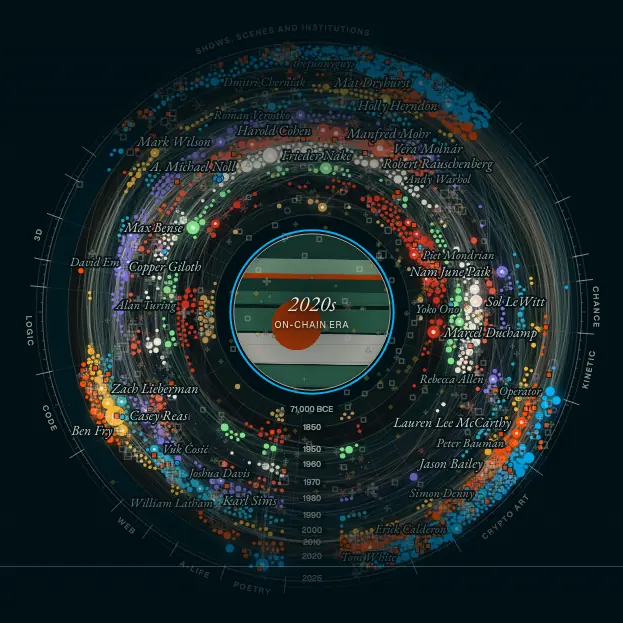
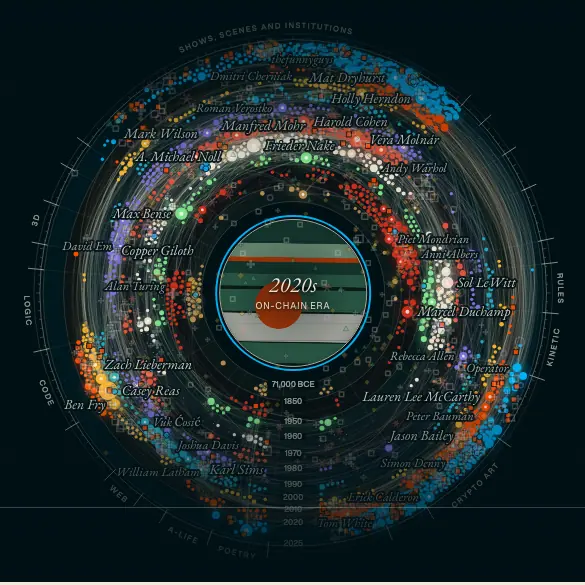
subjects D: one shared state between hero map and index (kinds, selection, search, year, hash); select then open; search all subjects with phone access; map offset right/down clear of SUBJECTS; zone id every-subject

diff --git a/subjects/subjects-index.js b/subjects/subjects-index.js
@@ -113,19 +113,24 @@
 
     // 01 Index: a weighted random deal (Efraimidis-Spirakis, w = mentions^A, A set per kind by the build so the most
     // mentioned lands about 90% of the time) or A to Z; 28 at a time
-    var IX = { k: 'all', sort: 'rand', shown: 28, deal: {} };
+    // one state shared with the map in the hero: kind (or several), order, year, selection; mirrored in the address
+    var IX = { k: 'all', sort: 'rand', shown: 28, deal: {}, yr: null, sel: null };
     var hk = (location.hash || '').replace(/^#/, '').toLowerCase().split('&'), KH = { people: 0, organisations: 1, organizations: 1, works: 2, exhibitions: 3, places: 4, techniques: 5, themes: 6 };
-    if (hk[0] in KH) IX.k = KH[hk[0]]; if (hk.indexOf('sort=az') > 0) IX.sort = 'az';
-    var pool = function (k) { return L.filter(function (s) { return k === 'all' || s.k === k; }); };
-    var deal = function (k) { var A = k === 'all' ? (DA.o || 1.3) : (DA[k] || 1.2); return pool(k).filter(function (s) { return s.slug !== 'peter-bauman'; }).map(function (s) { return [Math.log(Math.random()) / Math.pow(Math.max(s.tot, 1), A), s]; }).sort(function (a, b) { return b[0] - a[0]; }).map(function (x) { return x[1]; }); };
-    var az = function (k) { return pool(k).slice().sort(function (a, b) { return fold(a.n).localeCompare(fold(b.n)) || a.n.localeCompare(b.n); }); };
+    if (hk[0] in KH) IX.k = KH[hk[0]]; if (hk.indexOf('sort=az') > -1) IX.sort = 'az';
+    hk.forEach(function (p) { if (p.indexOf('s=') === 0 && byS[p.slice(2)]) IX.sel = p.slice(2); });
+    var inK = function (s, k) { return k === 'all' || (k instanceof Set ? k.has(s.k) : s.k === k); };
+    var pool = function (k, all) { return L.filter(function (s) { return inK(s, k) && (all || IX.yr == null || s.yr == null || s.yr <= IX.yr); }); };
+    var dkey = function (k) { return k instanceof Set ? Array.from(k).sort().join(',') : String(k); };
+    var deal = function (k) { var A = typeof k === 'number' ? (DA[k] || 1.2) : (DA.o || 1.3); return pool(k).filter(function (s) { return s.slug !== 'peter-bauman'; }).map(function (s) { return [Math.log(Math.random()) / Math.pow(Math.max(s.tot, 1), A), s]; }).sort(function (a, b) { return b[0] - a[0]; }).map(function (x) { return x[1]; }); };
+    var az = function (k, all) { return pool(k, all).slice().sort(function (a, b) { return fold(a.n).localeCompare(fold(b.n)) || a.n.localeCompare(b.n); }); };
     function ixRows() {
-      var all = IX.sort === 'az' ? az(IX.k) : (IX.deal[IX.k] || (IX.deal[IX.k] = deal(IX.k))), rows = all.slice(0, IX.shown);
-      return '<div class="sx-reg">' + rows.map(function (s) { return row(s, mentions(s)); }).join('') + '</div>' +
-        '<div class="sx-foot">' + (IX.shown < all.length ? '<button type="button" class="sx-chip" data-ixmore>Show ' + Math.min(28, all.length - IX.shown) + ' more</button>' : '') + '<span class="sx-count">Showing <b>' + fmt(Math.min(IX.shown, all.length)) + '</b> of ' + fmt(all.length) + '</span></div>';
+      var key = dkey(IX.k) + '|' + IX.yr, all = IX.sort === 'az' ? az(IX.k) : (IX.deal[key] || (IX.deal[key] = deal(IX.k))), rows = all.slice(0, IX.shown);
+      var sel = IX.sel && byS[IX.sel], selRow = sel && rows.indexOf(sel) < 0 ? '<div class="sx-selrow"><span class="sx-lbl">Selected on the map</span>' + row(sel, mentions(sel)) + '</div>' : '';
+      return selRow + '<div class="sx-reg">' + rows.map(function (s) { return row(s, mentions(s)); }).join('') + '</div>' +
+        '<div class="sx-foot">' + (IX.shown < all.length ? '<button type="button" class="sx-chip" data-ixmore>Show ' + Math.min(28, all.length - IX.shown) + ' more</button>' : '') + '<span class="sx-count">Showing <b>' + fmt(Math.min(IX.shown, all.length)) + '</b> of ' + fmt(all.length) + (IX.yr != null ? ' &middot; in history by ' + (IX.yr < 0 ? fmt(-IX.yr) + ' BCE' : IX.yr) : '') + '</span></div>';
     }
     function ixTools() {
-      return '<div class="sx-tools">' + chips(IX.k, 'data-ixk') + '</div><div class="sx-tools sx-tools2"><button type="button" class="sx-chip" data-ixsort="rand" aria-pressed="' + (IX.sort === 'rand') + '">Random</button><button type="button" class="sx-chip" data-ixsort="az" aria-pressed="' + (IX.sort === 'az') + '">A&ndash;Z</button>' + (IX.sort === 'rand' ? '<button type="button" class="sx-chip" data-ixshuf>Shuffle</button>' : '') + '</div>';
+      return '<div class="sx-tools">' + chips(IX.k instanceof Set ? 'some' : IX.k, 'data-ixk') + '</div><div class="sx-tools sx-tools2"><button type="button" class="sx-chip" data-ixsort="rand" aria-pressed="' + (IX.sort === 'rand') + '">Random</button><button type="button" class="sx-chip" data-ixsort="az" aria-pressed="' + (IX.sort === 'az') + '">A&ndash;Z</button>' + (IX.sort === 'rand' ? '<button type="button" class="sx-chip" data-ixshuf>Shuffle</button>' : '') + '</div>';
     }
     var mini = '<aside class="sx-mini" aria-label="On the map"><div class="sx-minicard"><span class="sx-lbl">On the map</span><canvas width="652" height="510" aria-hidden="true"></canvas><p>Hover a name to light it on the map. Click to open the subject.</p><a href="#lr-subjects-map" data-top>Back to the full map &uarr;</a></div></aside>';
     var idx = '<div class="sx-ixgrid"><div class="sx-ixmain"><div class="sx-ixtools">' + ixTools() + '</div><div class="sx-ixrows">' + ixRows() + '</div></div>' + mini + '</div>';
@@ -143,10 +148,10 @@
     si.parentNode.insertBefore(box, si);
 
     // 04 Every subject: the page's own lists (two Webflow Collection Lists, what search engines read) drawn as one register
-    si.classList.add('sx', 'sx-every'); si.id = si.id || 'every';
+    si.classList.add('sx', 'sx-every'); si.id = 'every-subject';
     var EV = { k: 'all' };
     function everyHTML() {
-      var all = az(EV.k), letters = {}, html = '', cur = '';
+      var all = az(EV.k, true), letters = {}, html = '', cur = '';
       all.forEach(function (s) { var l = L0(s.n); letters[l] = 1; if (l !== cur) { cur = l; html += '<div class="sx-letter" id="sx-l-' + (l === '#' ? 'num' : l) + '">' + l + '</div>'; } html += row(s, s.tot, ONE[s.k]); });
       return '<div class="sx-tools">' + chips(EV.k, 'data-evk') + '<span class="sx-count">Showing <b>' + fmt(all.length) + '</b> of ' + fmt(N) + '</span></div>' +
         '<nav class="sx-az" aria-label="By letter">' + '#ABCDEFGHIJKLMNOPQRSTUVWXYZ'.split('').map(function (c) { return letters[c] ? '<a href="#sx-l-' + (c === '#' ? 'num' : c) + '">' + c + '</a>' : '<span>' + c + '</span>'; }).join('') + '</nav><div class="sx-reg sx-c3">' + html + '</div>';
@@ -192,6 +197,11 @@
     function on(slug) { if (!slug) return; lit = slug; api.hover(slug); mirrorUntil = performance.now() + 1500; }
     function off() { if (!lit) return; lit = null; api.leave(); mirrorUntil = performance.now() + 900; }
     [box, si].forEach(function (z) {
+      z.addEventListener('click', function (e) {
+        var a = e.target.closest('a[data-sl]'); if (!a || e.metaKey || e.ctrlKey || e.shiftKey || e.button) return;
+        var slug = a.getAttribute('data-sl'); if (IX.sel === slug) return;   // the second click follows the link to the page
+        e.preventDefault(); api.select(slug);
+      });
       z.addEventListener('pointerover', function (e) { if (e.pointerType === 'touch') return; var a = e.target.closest('[data-sl]'); if (a) on(a.getAttribute('data-sl')); else off(); });
       z.addEventListener('pointerleave', function (e) { if (e.pointerType !== 'touch') off(); });
       z.addEventListener('focusin', function (e) { var a = e.target.closest('[data-sl]'); if (a) on(a.getAttribute('data-sl')); });
@@ -202,8 +212,8 @@
     box.addEventListener('click', function (e) {
       var t = e.target.closest('[data-ixk],[data-ixsort],[data-ixshuf],[data-ixmore],[data-ixgo],[data-top]'); if (!t) return;
       if (t.hasAttribute('data-top')) { e.preventDefault(); window.scrollTo({ top: 0, behavior: matchMedia('(prefers-reduced-motion: reduce)').matches ? 'auto' : 'smooth' }); return; }
-      if (t.hasAttribute('data-ixgo')) { e.preventDefault(); IX.k = +t.getAttribute('data-ixgo'); IX.sort = 'rand'; IX.shown = 28; redrawIx(); document.getElementById('index').scrollIntoView({ behavior: 'smooth' }); return; }
-      if (t.hasAttribute('data-ixk')) { var v = t.getAttribute('data-ixk'); IX.k = v === 'all' ? 'all' : +v; IX.shown = 28; }
+      if (t.hasAttribute('data-ixgo')) { e.preventDefault(); IX.k = +t.getAttribute('data-ixgo'); IX.sort = 'rand'; IX.shown = 28; api.setKinds([IX.k]); redrawIx(); document.getElementById('index').scrollIntoView({ behavior: 'smooth' }); return; }
+      if (t.hasAttribute('data-ixk')) { var v = t.getAttribute('data-ixk'); IX.k = v === 'all' ? 'all' : +v; IX.shown = 28; api.setKinds(v === 'all' ? [0, 1, 2, 3, 4, 5, 6] : [+v]); }
       if (t.hasAttribute('data-ixsort')) { IX.sort = t.getAttribute('data-ixsort'); IX.shown = 28; }
       if (t.hasAttribute('data-ixshuf')) IX.deal[IX.k] = deal(IX.k);
       if (t.hasAttribute('data-ixmore')) IX.shown += 28;
@@ -211,8 +221,11 @@
     });
     pill.addEventListener('click', function (e) { e.preventDefault(); window.scrollTo({ top: 0, behavior: 'smooth' }); });
     function redrawIx() {
-      box.querySelector('.sx-ixtools').innerHTML = ixTools(); box.querySelector('.sx-ixrows').innerHTML = ixRows();
-      var KN2 = ['people', 'organisations', 'works', 'exhibitions', 'places', 'techniques', 'themes'], h = (IX.k === 'all' ? (IX.sort === 'az' ? '#all' : '') : '#' + KN2[IX.k]) + (IX.sort === 'az' ? '&sort=az' : '');
+      box.querySelector('.sx-ixtools').innerHTML = ixTools(); box.querySelector('.sx-ixrows').innerHTML = ixRows(); markSel(false);
+      var KN2 = ['people', 'organisations', 'works', 'exhibitions', 'places', 'techniques', 'themes'], parts = [];
+      if (typeof IX.k === 'number') parts.push(KN2[IX.k]); else if (IX.sort === 'az' || IX.sel) parts.push('all');
+      if (IX.sort === 'az') parts.push('sort=az'); if (IX.sel) parts.push('s=' + IX.sel);
+      var h = parts.length ? '#' + parts.join('&') : '';
       try { history.replaceState(history.state, '', location.pathname + location.search + (h || '')); } catch (e) {}
     }
     si.addEventListener('click', function (e) { var t = e.target.closest('[data-evk]'); if (!t) return; var v = t.getAttribute('data-evk'); EV.k = v === 'all' ? 'all' : +v; ev.innerHTML = everyHTML(); });
@@ -222,10 +235,24 @@
       if (!a || !b) { c.innerHTML = '<span class="sx-lbl">Path</span><span class="sx-none">Pick two subjects from the list</span>'; return; }
       api.path(a.slug, b.slug).then(function (ch) { c.innerHTML = '<span class="sx-lbl">Path</span>' + (ch.length ? chainHTML(ch) : '<span class="sx-none">No path within four steps</span>'); mirrorUntil = performance.now() + 1500; });
     });
+    api.on('kinds', function (ks) { IX.k = ks.length >= 7 ? 'all' : ks.length === 1 ? ks[0] : new Set(ks); IX.shown = 28; redrawIx(); });
+    api.on('year', function (y) { IX.yr = y; IX.shown = 28; redrawIx(); });
+    api.on('select', function (slug) { IX.sel = slug; redrawIx(); markSel(true); mirrorUntil = performance.now() + 1500; });
+    function markSel(scroll) {
+      Array.prototype.forEach.call(document.querySelectorAll('.sx-row.is-sel'), function (r) { r.classList.remove('is-sel'); });
+      if (!IX.sel) return; var rows = document.querySelectorAll('.sx-row[data-sl="' + IX.sel.replace(/"/g, '') + '"]'), first = null;
+      Array.prototype.forEach.call(rows, function (r) { r.classList.add('is-sel'); if (!first && box.contains(r)) first = r; });
+      // the index scrolls to it only while the index is on screen (never pulls the page away from the map)
+      var ixz = document.getElementById('index'), rb = ixz.getBoundingClientRect();
+      if (scroll && first && rb.top < innerHeight && rb.bottom > 0) first.scrollIntoView({ block: 'nearest', behavior: matchMedia('(prefers-reduced-motion: reduce)').matches ? 'auto' : 'smooth' });
+    }
+    // a shared link restores both sides
+    if (typeof IX.k === 'number') api.setKinds([IX.k]);
+    if (IX.sel) api.select(IX.sel);
     addEventListener('hashchange', function () { var h = (location.hash || '').replace(/^#/, '').toLowerCase().split('&'); if (h[0] in KH) { IX.k = KH[h[0]]; IX.sort = h.indexOf('sort=az') > 0 ? 'az' : 'rand'; IX.shown = 28; redrawIx(); } });
   }
 
-  var SX_CSS = ".sx{--paper:#EFE9D8;--ink:#011015;--ink55:rgba(1,16,21,.55);--ink62:rgba(1,16,21,.62);--hair:rgba(1,16,21,.17);--hair08:rgba(1,16,21,.08);--or:#FF4C00;--or-t:#C93D00;--card:#FCFBF7;--shadow:rgba(1,16,21,.10);\n  --fr:clamp(20px,4.4vw,80px);color:var(--ink)}\nhtml.lr-dark .sx{--paper:#011015;--ink:#EFE9D8;--ink55:rgba(239,233,216,.55);--ink62:rgba(239,233,216,.62);--hair:rgba(239,233,216,.17);--hair08:rgba(239,233,216,.08);--or:#FF7A45;--or-t:#FF7A45;--card:#0A1B21;--shadow:rgba(0,0,0,.45)}\n#sx-zones,.sx.sx-every{max-width:1580px;margin:0 auto;padding:64px var(--fr) 0;box-sizing:border-box}\n.sx.sx-every{padding-top:0;padding-bottom:16px}\n.sx-zone{margin-bottom:64px;scroll-margin-top:90px}\n.sx-every{scroll-margin-top:90px}\n.sx-zh{display:flex;align-items:flex-end;gap:0 22px;border-bottom:1px solid var(--ink);padding-bottom:20px;margin:0 0 26px}\n.sx-no{font:500 69.12px/51.15px \"EB Garamond\",Garamond,Georgia,serif;color:transparent;-webkit-text-stroke:1.3px var(--or);letter-spacing:.01em}\n.sx-x{display:flex;flex-wrap:wrap;align-items:baseline;gap:4px 18px}\n.sx-x h2,.sx-x .sx-h2{margin:20px 0 4px;font:500 12px/13.2px Rules,Arial,sans-serif;letter-spacing:.22em;text-transform:uppercase;color:var(--ink)}\n.sx-more{font:italic 400 16px/23px \"EB Garamond\",Garamond,Georgia,serif;color:var(--ink55)}\n.sx-lbl{font:500 10.5px/1 Rules,Arial,sans-serif;letter-spacing:.16em;text-transform:uppercase;color:var(--ink62)}\n.sx-tools{display:flex;flex-wrap:wrap;gap:9px;align-items:center;border-bottom:1px solid var(--hair);padding:16px 0 12px}\n.sx-tools2{border-bottom:0;padding-bottom:6px}\n.sx-chip{display:inline-flex;align-items:center;gap:8px;height:36px;padding:0 14px;border:1px solid var(--hair);background:transparent;font:500 11px/23px Rules,Arial,sans-serif;letter-spacing:.14em;text-transform:uppercase;color:var(--ink);white-space:nowrap;cursor:pointer;border-radius:0}\n.sx-chip:hover{border-color:var(--ink)}\n.sx-chip[aria-pressed=true]{background:var(--ink);color:var(--paper);border-color:var(--ink)}\n.sx-chip i{font-style:normal;font-weight:400;letter-spacing:.06em;color:var(--ink55)}\n.sx-chip[aria-pressed=true] i{color:inherit;opacity:.7}\n.sx-count{font:400 11px/23px Rules,Arial,sans-serif;letter-spacing:.14em;text-transform:uppercase;color:var(--ink55);margin-left:auto}\n.sx-count b{color:var(--ink);font-weight:500}\n.sx-foot{display:flex;align-items:center;gap:12px;margin-top:18px}\n.sx-reg{display:grid;grid-template-columns:repeat(2,minmax(0,1fr));column-gap:28px}\n.sx-reg.sx-c3{grid-template-columns:repeat(3,minmax(0,1fr))}\n.sx-row{display:grid;grid-template-columns:34px minmax(0,1fr) auto;gap:10px;align-items:baseline;border-bottom:1px solid var(--hair08);padding:7px 0 8px;color:inherit;text-decoration:none}\n.sx-row .n{font:400 11px/23px Rules,Arial,sans-serif;color:var(--or-t);font-variant-numeric:tabular-nums}\n.sx-row .t{font:500 17px/22.1px Rules,Arial,sans-serif;color:var(--ink);overflow:hidden;text-overflow:ellipsis;white-space:nowrap}\n.sx-row .d{font:400 11px/23px Rules,Arial,sans-serif;letter-spacing:.02em;color:var(--ink55);white-space:nowrap}\n.sx-row:hover,.sx-row:focus-visible{background:linear-gradient(90deg,rgba(255,76,0,.10),transparent 70%);outline:0}\n.sx-row:hover .t,.sx-row:focus-visible .t{color:var(--or-t)}\n.sx-letter{grid-column:1/-1;font:500 22px/26px Rules,Arial,sans-serif;letter-spacing:-.01em;padding:18px 0 6px;border-bottom:1px solid var(--ink);scroll-margin-top:90px}\n.sx-az{display:flex;flex-wrap:wrap;gap:2px 0;padding:10px 0 4px;font:500 11px/26px Rules,Arial,sans-serif;letter-spacing:.06em}\n.sx-az a,.sx-az span{width:26px;text-align:center;color:var(--ink);text-decoration:none}\n.sx-az span{color:var(--ink55);opacity:.5}\n.sx-az a:hover{color:var(--or-t)}\n.sx-ixgrid{display:grid;grid-template-columns:minmax(0,1fr) 360px;gap:44px;align-items:start}\n.sx-mini{position:sticky;top:96px}\n.sx-minicard{border:1px solid var(--ink);background:var(--card);padding:16px;box-shadow:10px 11px 0 var(--shadow);display:grid;gap:10px}\n.sx-minicard canvas{width:326px;height:255px;background:#011015;display:block}\n.sx-minicard p{margin:0;font:italic 400 17px/23px \"EB Garamond\",Garamond,serif;color:var(--ink62)}\n.sx-minicard a{font:400 14px/1 Rules,Arial,sans-serif;color:var(--ink);border-bottom:1px solid var(--hair);padding-bottom:6px;justify-self:start;text-decoration:none}\n.sx-paths{display:grid;gap:22px;max-width:900px}\n.sx-path{display:grid;grid-template-columns:minmax(0,1fr) 22px minmax(0,1fr) auto;gap:10px;align-items:center;margin:0}\n.sx-path input{height:38px;border:0;border-bottom:1px solid var(--ink);background:transparent;font:italic 400 17px/38px \"EB Garamond\",Garamond,serif;color:var(--ink);padding:0 2px;border-radius:0;outline:0;min-width:0}\n.sx-path input::placeholder{color:var(--ink55)}\n.sx-path input:focus{border-bottom-color:var(--or)}\n.sx-arrow{text-align:center;color:var(--ink)}\n.sx-chain{display:flex;flex-wrap:wrap;align-items:center;gap:8px 10px;min-height:30px}\n.sx-chain .sx-lbl{margin-right:6px}\n.sx-node{font:400 24px/1.1 \"EB Garamond\",Garamond,serif;border-bottom:1px solid var(--ink);padding-bottom:2px;color:var(--ink);text-decoration:none}\n.sx-node:hover{color:var(--or-t);border-bottom-color:var(--or)}\n.sx-hop{color:var(--or-t);cursor:help}\n.sx-none{font:italic 400 17px/1.3 \"EB Garamond\",Garamond,serif;color:var(--ink55)}\n.sx-kgrid{display:grid;grid-template-columns:repeat(4,minmax(0,1fr));gap:40px 28px}\n.sx-kcol h3{margin:0 0 6px;font:500 22px/26px Rules,Arial,sans-serif;letter-spacing:-.01em;border-bottom:1px solid var(--ink);padding-bottom:10px;color:var(--ink)}\n.sx-kcol h3 i{font-style:normal;font-size:12px;letter-spacing:.08em;color:var(--ink55);font-weight:400}\n.sx-kcol .sx-row{grid-template-columns:30px minmax(0,1fr)}\n.sx-kcol .sx-row .d{display:none}\n.sx-more2{display:inline-block;margin-top:12px;font:italic 400 16px/23px \"EB Garamond\",Garamond,serif;color:var(--ink55);text-decoration:none}\n.sx-more2:hover{color:var(--or-t)}\n.sx-platewrap{max-width:1580px;margin:48px auto 64px;padding:0 var(--fr);box-sizing:border-box}\n.sx-plate{background:#011015;color:#EFE9D8;border:1px solid #011015;padding:66px 57.6px;text-align:center;box-shadow:10px 11px 0 var(--shadow)}\nhtml.lr-dark .sx-plate{background:#0A1B21;border-color:rgba(239,233,216,.17)}\n.sx-plate .sx-k{font:500 10.5px/1 Rules,Arial,sans-serif;letter-spacing:.16em;text-transform:uppercase;color:#FF4C00}\n.sx-plate h2{margin:14px 0 12px;font:500 51.84px/54.4px Rules,Arial,sans-serif;letter-spacing:-.012em;color:#EFE9D8}\n.sx-plate p{margin:0 auto 24px;max-width:470px;font:italic 400 18px/24px \"EB Garamond\",Garamond,serif;color:rgba(239,235,222,.88)}\n.sx-btns{display:flex;justify-content:center;gap:10px;flex-wrap:wrap}\n.sx-btns a{display:inline-flex;align-items:center;height:44px;padding:0 20px;border:1px solid rgba(239,235,222,.55);font:400 14px/1 Rules,Arial,sans-serif;color:#EFE9D8;text-decoration:none}\n.sx-btns a:hover{border-color:#FF4C00}\n.sx-sr{position:absolute!important;width:1px;height:1px;overflow:hidden;clip:rect(0 0 0 0);white-space:nowrap}\n.sx-pill{display:none}\n@media (max-width:860px){\n  #sx-zones,.sx.sx-every{padding:44px 18px 0}\n  .sx-no{font-size:52px;line-height:40px}\n  .sx-reg,.sx-reg.sx-c3{grid-template-columns:minmax(0,1fr)}\n  .sx-ixgrid{grid-template-columns:minmax(0,1fr)}\n  .sx-mini{display:none}\n  .sx-kgrid{grid-template-columns:minmax(0,1fr)}\n  .sx-node{font-size:19px}\n  .sx-path{grid-template-columns:minmax(0,1fr) auto;grid-template-areas:\"a a\" \"b f\"}\n  .sx-path .sx-arrow{display:none}\n  .sx-platewrap{padding:0 18px}\n  .sx-plate{padding:40px 22px}.sx-plate h2{font-size:34px;line-height:37px}\n  .sx-pill{position:fixed;right:16px;bottom:16px;z-index:50;display:flex;flex-direction:column;align-items:center;gap:4px;text-decoration:none;opacity:0;pointer-events:none;transition:opacity .25s}\n  html.sx-hero-out .sx-pill{opacity:1;pointer-events:auto}\n  .sx-pill canvas{width:64px;height:64px;border-radius:50%;border:2px solid #FF4C00;box-shadow:0 4px 0 rgba(1,16,21,.1);background:#011015}\n  .sx-pill span{font:500 9.5px/1 Rules,Arial,sans-serif;letter-spacing:.16em;text-transform:uppercase;background:#011015;color:#F7F4EA;padding:4px 8px}\n}\n@media (prefers-reduced-motion:reduce){.sx-pill{transition:none}}\n";
+  var SX_CSS = ".sx{--paper:#EFE9D8;--ink:#011015;--ink55:rgba(1,16,21,.55);--ink62:rgba(1,16,21,.62);--hair:rgba(1,16,21,.17);--hair08:rgba(1,16,21,.08);--or:#FF4C00;--or-t:#C93D00;--card:#FCFBF7;--shadow:rgba(1,16,21,.10);\n  --fr:clamp(20px,4.4vw,80px);color:var(--ink)}\nhtml.lr-dark .sx{--paper:#011015;--ink:#EFE9D8;--ink55:rgba(239,233,216,.55);--ink62:rgba(239,233,216,.62);--hair:rgba(239,233,216,.17);--hair08:rgba(239,233,216,.08);--or:#FF7A45;--or-t:#FF7A45;--card:#0A1B21;--shadow:rgba(0,0,0,.45)}\n#sx-zones,.sx.sx-every{max-width:1580px;margin:0 auto;padding:64px var(--fr) 0;box-sizing:border-box}\n.sx.sx-every{padding-top:0;padding-bottom:16px}\n.sx-zone{margin-bottom:64px;scroll-margin-top:90px}\n.sx-every{scroll-margin-top:90px}\n.sx-zh{display:flex;align-items:flex-end;gap:0 22px;border-bottom:1px solid var(--ink);padding-bottom:20px;margin:0 0 26px}\n.sx-no{font:500 69.12px/51.15px \"EB Garamond\",Garamond,Georgia,serif;color:transparent;-webkit-text-stroke:1.3px var(--or);letter-spacing:.01em}\n.sx-x{display:flex;flex-wrap:wrap;align-items:baseline;gap:4px 18px}\n.sx-x h2,.sx-x .sx-h2{margin:20px 0 4px;font:500 12px/13.2px Rules,Arial,sans-serif;letter-spacing:.22em;text-transform:uppercase;color:var(--ink)}\n.sx-more{font:italic 400 16px/23px \"EB Garamond\",Garamond,Georgia,serif;color:var(--ink55)}\n.sx-lbl{font:500 10.5px/1 Rules,Arial,sans-serif;letter-spacing:.16em;text-transform:uppercase;color:var(--ink62)}\n.sx-tools{display:flex;flex-wrap:wrap;gap:9px;align-items:center;border-bottom:1px solid var(--hair);padding:16px 0 12px}\n.sx-tools2{border-bottom:0;padding-bottom:6px}\n.sx-chip{display:inline-flex;align-items:center;gap:8px;height:36px;padding:0 14px;border:1px solid var(--hair);background:transparent;font:500 11px/23px Rules,Arial,sans-serif;letter-spacing:.14em;text-transform:uppercase;color:var(--ink);white-space:nowrap;cursor:pointer;border-radius:0}\n.sx-chip:hover{border-color:var(--ink)}\n.sx-chip[aria-pressed=true]{background:var(--ink);color:var(--paper);border-color:var(--ink)}\n.sx-chip i{font-style:normal;font-weight:400;letter-spacing:.06em;color:var(--ink55)}\n.sx-chip[aria-pressed=true] i{color:inherit;opacity:.7}\n.sx-count{font:400 11px/23px Rules,Arial,sans-serif;letter-spacing:.14em;text-transform:uppercase;color:var(--ink55);margin-left:auto}\n.sx-count b{color:var(--ink);font-weight:500}\n.sx-foot{display:flex;align-items:center;gap:12px;margin-top:18px}\n.sx-reg{display:grid;grid-template-columns:repeat(2,minmax(0,1fr));column-gap:28px}\n.sx-reg.sx-c3{grid-template-columns:repeat(3,minmax(0,1fr))}\n.sx-row{display:grid;grid-template-columns:34px minmax(0,1fr) auto;gap:10px;align-items:baseline;border-bottom:1px solid var(--hair08);padding:7px 0 8px;color:inherit;text-decoration:none}\n.sx-row .n{font:400 11px/23px Rules,Arial,sans-serif;color:var(--or-t);font-variant-numeric:tabular-nums}\n.sx-row .t{font:500 17px/22.1px Rules,Arial,sans-serif;color:var(--ink);overflow:hidden;text-overflow:ellipsis;white-space:nowrap}\n.sx-row .d{font:400 11px/23px Rules,Arial,sans-serif;letter-spacing:.02em;color:var(--ink55);white-space:nowrap}\n.sx-row:hover,.sx-row:focus-visible{background:linear-gradient(90deg,rgba(255,76,0,.10),transparent 70%);outline:0}\n.sx-row:hover .t,.sx-row:focus-visible .t{color:var(--or-t)}\n.sx-letter{grid-column:1/-1;font:500 22px/26px Rules,Arial,sans-serif;letter-spacing:-.01em;padding:18px 0 6px;border-bottom:1px solid var(--ink);scroll-margin-top:90px}\n.sx-az{display:flex;flex-wrap:wrap;gap:2px 0;padding:10px 0 4px;font:500 11px/26px Rules,Arial,sans-serif;letter-spacing:.06em}\n.sx-az a,.sx-az span{width:26px;text-align:center;color:var(--ink);text-decoration:none}\n.sx-az span{color:var(--ink55);opacity:.5}\n.sx-az a:hover{color:var(--or-t)}\n.sx-ixgrid{display:grid;grid-template-columns:minmax(0,1fr) 360px;gap:44px;align-items:start}\n.sx-mini{position:sticky;top:96px}\n.sx-minicard{border:1px solid var(--ink);background:var(--card);padding:16px;box-shadow:10px 11px 0 var(--shadow);display:grid;gap:10px}\n.sx-minicard canvas{width:326px;height:255px;background:#011015;display:block}\n.sx-minicard p{margin:0;font:italic 400 17px/23px \"EB Garamond\",Garamond,serif;color:var(--ink62)}\n.sx-minicard a{font:400 14px/1 Rules,Arial,sans-serif;color:var(--ink);border-bottom:1px solid var(--hair);padding-bottom:6px;justify-self:start;text-decoration:none}\n.sx-paths{display:grid;gap:22px;max-width:900px}\n.sx-path{display:grid;grid-template-columns:minmax(0,1fr) 22px minmax(0,1fr) auto;gap:10px;align-items:center;margin:0}\n.sx-path input{height:38px;border:0;border-bottom:1px solid var(--ink);background:transparent;font:italic 400 17px/38px \"EB Garamond\",Garamond,serif;color:var(--ink);padding:0 2px;border-radius:0;outline:0;min-width:0}\n.sx-path input::placeholder{color:var(--ink55)}\n.sx-path input:focus{border-bottom-color:var(--or)}\n.sx-arrow{text-align:center;color:var(--ink)}\n.sx-chain{display:flex;flex-wrap:wrap;align-items:center;gap:8px 10px;min-height:30px}\n.sx-chain .sx-lbl{margin-right:6px}\n.sx-node{font:400 24px/1.1 \"EB Garamond\",Garamond,serif;border-bottom:1px solid var(--ink);padding-bottom:2px;color:var(--ink);text-decoration:none}\n.sx-node:hover{color:var(--or-t);border-bottom-color:var(--or)}\n.sx-hop{color:var(--or-t);cursor:help}\n.sx-none{font:italic 400 17px/1.3 \"EB Garamond\",Garamond,serif;color:var(--ink55)}\n.sx-kgrid{display:grid;grid-template-columns:repeat(4,minmax(0,1fr));gap:40px 28px}\n.sx-kcol h3{margin:0 0 6px;font:500 22px/26px Rules,Arial,sans-serif;letter-spacing:-.01em;border-bottom:1px solid var(--ink);padding-bottom:10px;color:var(--ink)}\n.sx-kcol h3 i{font-style:normal;font-size:12px;letter-spacing:.08em;color:var(--ink55);font-weight:400}\n.sx-kcol .sx-row{grid-template-columns:30px minmax(0,1fr)}\n.sx-kcol .sx-row .d{display:none}\n.sx-more2{display:inline-block;margin-top:12px;font:italic 400 16px/23px \"EB Garamond\",Garamond,serif;color:var(--ink55);text-decoration:none}\n.sx-more2:hover{color:var(--or-t)}\n.sx-platewrap{max-width:1580px;margin:48px auto 64px;padding:0 var(--fr);box-sizing:border-box}\n.sx-plate{background:#011015;color:#EFE9D8;border:1px solid #011015;padding:66px 57.6px;text-align:center;box-shadow:10px 11px 0 var(--shadow)}\nhtml.lr-dark .sx-plate{background:#0A1B21;border-color:rgba(239,233,216,.17)}\n.sx-plate .sx-k{font:500 10.5px/1 Rules,Arial,sans-serif;letter-spacing:.16em;text-transform:uppercase;color:#FF4C00}\n.sx-plate h2{margin:14px 0 12px;font:500 51.84px/54.4px Rules,Arial,sans-serif;letter-spacing:-.012em;color:#EFE9D8}\n.sx-plate p{margin:0 auto 24px;max-width:470px;font:italic 400 18px/24px \"EB Garamond\",Garamond,serif;color:rgba(239,235,222,.88)}\n.sx-btns{display:flex;justify-content:center;gap:10px;flex-wrap:wrap}\n.sx-btns a{display:inline-flex;align-items:center;height:44px;padding:0 20px;border:1px solid rgba(239,235,222,.55);font:400 14px/1 Rules,Arial,sans-serif;color:#EFE9D8;text-decoration:none}\n.sx-btns a:hover{border-color:#FF4C00}\n.sx-sr{position:absolute!important;width:1px;height:1px;overflow:hidden;clip:rect(0 0 0 0);white-space:nowrap}\n.sx-pill{display:none}\n@media (max-width:860px){\n  #sx-zones,.sx.sx-every{padding:44px 18px 0}\n  .sx-no{font-size:52px;line-height:40px}\n  .sx-reg,.sx-reg.sx-c3{grid-template-columns:minmax(0,1fr)}\n  .sx-ixgrid{grid-template-columns:minmax(0,1fr)}\n  .sx-mini{display:none}\n  .sx-kgrid{grid-template-columns:minmax(0,1fr)}\n  .sx-node{font-size:19px}\n  .sx-path{grid-template-columns:minmax(0,1fr) auto;grid-template-areas:\"a a\" \"b f\"}\n  .sx-path .sx-arrow{display:none}\n  .sx-platewrap{padding:0 18px}\n  .sx-plate{padding:40px 22px}.sx-plate h2{font-size:34px;line-height:37px}\n  .sx-pill{position:fixed;right:16px;bottom:16px;z-index:50;display:flex;flex-direction:column;align-items:center;gap:4px;text-decoration:none;opacity:0;pointer-events:none;transition:opacity .25s}\n  html.sx-hero-out .sx-pill{opacity:1;pointer-events:auto}\n  .sx-pill canvas{width:64px;height:64px;border-radius:50%;border:2px solid #FF4C00;box-shadow:0 4px 0 rgba(1,16,21,.1);background:#011015}\n  .sx-pill span{font:500 9.5px/1 Rules,Arial,sans-serif;letter-spacing:.16em;text-transform:uppercase;background:#011015;color:#F7F4EA;padding:4px 8px}\n}\n@media (prefers-reduced-motion:reduce){.sx-pill{transition:none}}\n.sx-row.is-sel{background:linear-gradient(90deg,rgba(255,76,0,.16),transparent 75%)}\n.sx-row.is-sel .t{color:var(--or-t)}\n.sx-selrow{display:grid;gap:4px;margin:0 0 14px;padding:8px 0 0;border-top:1px solid var(--ink)}\n.sx-selrow .sx-row{border-bottom:1px solid var(--ink)}\n";
   // after first paint: the poster holds the box until then
   var idle = window.requestIdleCallback || function (f) { return setTimeout(f, 200); };
   if (document.readyState === 'complete') idle(mount, { timeout: 1500 }); else addEventListener('load', function () { idle(mount, { timeout: 1500 }); });

diff --git a/subjects/assets/views/people.js b/subjects/assets/views/people.js
@@ -538,6 +538,9 @@
     } else {
       sheetTop = 0; root.style.removeProperty('--sheet-top');
       SC = Math.min(W / 2 - 18, H / 2 - 20) / 1.08; CX = W / 2; CY = H / 2 + 4;
+      // the Subjects page hero: the chart sits right of centre and a little low, so SUBJECTS reads clear of its dense
+      // rings (as the Window's title does over its image); the page's poster uses the same numbers
+      if (window.LR_SL_HERO) { SC *= 0.94; CX = W / 2 + Math.min(0.08 * W, 160); CY = H / 2 + 4 + 0.06 * H; }
     }
     starScale = clamp(SC / NOMINAL, 0.55, 1.25);
     labelScale = clamp(0.72 + 0.3 * starScale, 0.84, 1.05);
@@ -1299,9 +1302,11 @@
 
   function onTap(x, y, touch) {
     const h = hit(x, y, touch); hideTip();
+    if (HERO && !h && st.slSel) return slSelect(null);
     if (HERO && h) {                                    // the hero opens pages; the page below holds the reading
-      if (h.type === 'sl') return slOpen(h.s.slug);
-      if (h.type === 'star') return slOpen(SL.p2s && SL.p2s.get(h.p));
+      // one shared selection with the page below: a first click selects (and lights its row), a second opens the page
+      if (h.type === 'sl') return st.slSel === h.s ? slOpen(h.s.slug) : slSelect(h.s, x, y);
+      if (h.type === 'star') { const q = SL.p2s && SL.by.get(SL.p2s.get(h.p)); if (q) return st.slSel === q ? slOpen(q.slug) : slSelect(q, x, y); return; }
       if (h.type === 'doc') { const u = h.d.u || (h.d.k === 'a' && h.d.s ? LRWEB + '/editorial/' + h.d.s : ''); if (u) try { window.parent.postMessage({ lrembed: 'open', url: u }, '*'); } catch (e) {} return; }
       if (h.type === 'moment') { try { window.parent.postMessage({ lrsite: 'go', page: 'moment', params: { slug: h.m.s } }, '*'); } catch (e) {} return; }
     }
@@ -1859,7 +1864,7 @@
     if (HERO && SL.ready) {                           // the hero finds any subject and opens its page
       results = SL.list.map(q => { if (!q.nn) q.nn = norm(q.n); return [q, score(q)]; }).filter(x => x[1] < 9).sort((a, b) => a[1] - b[1] || b[0].tot - a[0].tot).slice(0, 8).map(x => x[0]);
       active = 0;
-      qRes.innerHTML = results.length ? results.map((q, i) => `<li role="option" id="pp-r${i}" aria-selected="${i === 0}" data-i="${i}"><span class="r-dot" style="background:${SLK_HEX[q.k] || '#EFE9D8'}"></span><span class="r-n">${esc(q.n)}</span><span class="r-c">${SLK_ONE[q.k]}</span></li>`).join('')
+      qRes.innerHTML = results.length ? results.map((q, i) => `<li role="option" id="pp-r${i}" aria-selected="${i === 0}" data-i="${i}"><span class="r-dot" style="background:${SLK_HEX[q.k] || '#EFE9D8'}"></span><span class="r-n">${esc(q.n)}</span><span class="r-c">${SLK_ONE[q.k]}${q.tot ? ' &middot; ' + fmt(q.tot) : ''}</span><a class="r-go" href="${LRWEB}/subjects/${esc(q.slug)}" target="_top" aria-label="Open ${esc(q.n)}">&#8599;</a></li>`).join('')
         : '<li class="r-none" aria-disabled="true">No subject by that name</li>';
       qRes.hidden = false; qIn.setAttribute('aria-expanded', 'true'); return;
     }
@@ -1871,7 +1876,7 @@
   }
   function pickResult(i) {
     const p = results[i]; if (!p) return;
-    if (HERO && p.slug) { qIn.value = ''; qRes.hidden = true; return slOpen(p.slug); }
+    if (HERO && p.slug) { qRes.hidden = true; qIn.setAttribute('aria-expanded', 'false'); if (st.slSel === p) return slOpen(p.slug); qIn.value = p.n; slSelect(p); return; }
     qIn.value = ''; qRes.hidden = true; qIn.setAttribute('aria-expanded', 'false'); qIn.blur();
     if (p.visT < 1) { st.era = 0; st.region = -1; st.min = 1; st.src = ''; applyFilters(); }
     select(p);
@@ -1968,7 +1973,7 @@
       } else if (e.key === 'Enter') { e.preventDefault(); pickResult(active); }
       else if (e.key === 'Escape') { qIn.value = ''; runSearch(); qIn.blur(); }
     });
-    qRes.addEventListener('pointerdown', e => { const li = e.target.closest('li[data-i]'); if (li) { e.preventDefault(); pickResult(+li.dataset.i); } });
+    qRes.addEventListener('pointerdown', e => { if (e.target.closest('.r-go')) return; const li = e.target.closest('li[data-i]'); if (li) { e.preventDefault(); pickResult(+li.dataset.i); } });
     qIn.addEventListener('blur', () => setTimeout(() => { qRes.hidden = true; qIn.setAttribute('aria-expanded', 'false'); }, 150));
     // keyboard
     addEventListener('keydown', e => {
@@ -2360,7 +2365,12 @@
   window.LR_SL_API = {
     ready: () => !!SL.ready,
     kinds: () => SLK_NAME.slice(),
-    list: () => SL.list.map(s => ({ slug: s.slug, n: s.n, k: s.k, e: s.e, p: s.p, t: s.t, tot: s.tot })),
+    list: () => SL.list.map(s => ({ slug: s.slug, n: s.n, k: s.k, e: s.e, p: s.p, t: s.t, tot: s.tot, yr: s.yr })),
+    on: (n, f) => { (SLEV[n] || (SLEV[n] = [])).push(f); },
+    select: slug => slSelect(slug ? SL.by.get(slug) || null : null), selected: () => st.slSel ? st.slSel.slug : null,
+    kindsOn: () => Array.from(SL.kinds),
+    setKinds: ks => { SL.kinds = new Set(ks); slKindsSync(); slWake(); },
+    year: () => (st.yrT >= 0.999 ? null : Math.round(yrOf(st.yrT))),
     da: () => SL.da,
     hover: slug => slListHover(slug), leave: () => slListLeave(),
     // a path through shared pages: route() only reads it, path() also draws it on the map
@@ -2370,6 +2380,24 @@
     sky: () => cv, ground: () => $('#pp-ground'), view: () => ({ K: V.K, ox: V.ox, oy: V.oy, W, H, hole: V.hole }),
     pos: slug => { const q = SL.by.get(slug); return q && q.cx != null ? [V.ox + q.cx * V.K, V.oy + q.cy * V.K] : null; },
   };
+  // the Subjects page shares one state between this map and its index: kinds, selection, year (events out, setters in)
+  const SLEV = {};
+  function slEmit(n, v) { (SLEV[n] || []).forEach(f => { try { f(v); } catch (e) {} }); }
+  function slReveal(q) {                             // where q sits now, easing it into view first if it is outside
+    let x = V.ox + q.cx * V.K, y = V.oy + q.cy * V.K; const M = 48;
+    if (!RM && (x < M || y < M || x > W - M || y > H - M)) {
+      camT.anchor = null; camT.k = cam.k; camT.x = cam.x + CX - x; camT.y = cam.y + CY - y; clampCam(camT);
+      x += camT.x - cam.x; y += camT.y - cam.y; kick();
+    }
+    return [Math.max(48, Math.min(W - 48, x)), Math.max(48, Math.min(H - 48, y))];
+  }
+  function slSelect(q, x, y) {
+    if (q && (q.cx == null || !SL.kinds.has(q.k))) { if (q.cx == null) q = null; else { SL.kinds.add(q.k); slKindsSync(); } }
+    st.slSel = q || null; slWake();
+    if (q) { const p = x == null ? slReveal(q) : [x, y]; setHover({ type: 'sl', s: q }, p[0], p[1]); } else setHover(null);
+    kick(); slEmit('select', q ? q.slug : null);
+  }
+  function slKindsSync() { $$('#sl-kinds [data-slk]').forEach(b => b.setAttribute('aria-pressed', String(SL.kinds.has(+b.dataset.slk)))); kick(); }
   let slLH = null, slLT = 0, slLCam = null;
   function slListHover(slug) {
     if (!window.LR_SL_CALM) return;
@@ -2390,6 +2418,7 @@
     if (!slLH) return; clearTimeout(slLT);
     slLT = setTimeout(() => {
       if (st.hover && st.hover.s === slLH) setHover(null);
+      if (HERO && st.slSel) { const p = [V.ox + st.slSel.cx * V.K, V.oy + st.slSel.cy * V.K]; setHover({ type: 'sl', s: st.slSel }, p[0], p[1]); }   // back to the selection's card
       if (slLCam) { camT.anchor = null; camT.x = slLCam.x; camT.y = slLCam.y; slLCam = null; kick(); }
       slLH = null;
     }, 150);
@@ -2450,7 +2479,7 @@
       if (s.k === 0) { if (slDim < 0.02) return; const x = ox + s.cx * K, y = oy + s.cy * K; if (x < -10 || y < -10 || x > W + 10 || y > H + 10) return;
         g.globalAlpha = fade * slDim * yrA(s.yr) * 0.9; g.fillStyle = '#EFE9D8'; g.beginPath(); g.arc(x, y, slSize(s) * 0.8, 0, TAU); g.fill(); return; }
       const x = ox + s.cx * K, y = oy + s.cy * K; if (x < -10 || y < -10 || x > W + 10 || y > H + 10) return;
-      const sz = slSize(s), a = yrA(s.yr) * (st.era && s.era && s.era !== st.era ? 0.15 : 1) * (st.sel || st.subj ? (F && F.has(s) ? 1 : 0.25) : 1) * (st.slCalm && s !== hs ? 0.3 : 1);
+      const sz = slSize(s), a = yrA(s.yr) * (st.era && s.era && s.era !== st.era ? 0.15 : 1) * (st.sel || st.subj ? (F && F.has(s) ? 1 : 0.25) : 1) * (st.slCalm && s !== hs && s !== st.slSel ? 0.3 : 1);
       g.globalAlpha = fade * a * (s === hs ? 1 : 0.85);
       const c = SLK_HEX[s.k];
       if (s.k === 6) { g.strokeStyle = c; g.lineWidth = 1.4; slShape(x, y, sz, s.k); g.stroke(); }
@@ -2459,6 +2488,7 @@
     });
     if (slDim > 0.01) slFrame(K, ox, oy, fade);
     if (F) slRays(st.subj.sl, K, ox, oy, fade);      // a subject page: its subject and its nearest, always drawn
+    if (HERO && st.slSel && st.slSel !== hs) slRays(st.slSel, K, ox, oy, fade);   // the Subjects page's selected subject
     if (hs && (!F || hs !== st.subj.sl)) slRays(hs, K, ox, oy, fade);
     // the scrubber's edge: the ring of the year it stands on
     if (st.yrT < 0.999 && st.slMode !== 1) {
@@ -2655,9 +2685,9 @@
     const sc = document.createElement('div'); sc.id = 'sl-time'; sc.className = 'sl-time';
     sc.innerHTML = `<span class="lab">In history by</span><input id="sl-yr" type="range" min="0" max="1000" value="1000" aria-label="Show subjects as they enter history"><b id="sl-yl">2025</b>`;
     stage.appendChild(sc);
-    $('#sl-yr').addEventListener('input', e => { st.yrT = +e.target.value / 1000; $('#sl-yl').textContent = yrLab(yrOf(st.yrT)); slWake(); slWindowFor(st.yrT); kick(); });
+    $('#sl-yr').addEventListener('input', e => { st.yrT = +e.target.value / 1000; $('#sl-yl').textContent = yrLab(yrOf(st.yrT)); slWake(); slWindowFor(st.yrT); kick(); slEmit('year', st.yrT >= 0.999 ? null : Math.round(yrOf(st.yrT))); });
     d.addEventListener('click', e => { const b = e.target.closest('[data-slk]'); if (!b) return; const k = +b.dataset.slk;
-      if (SL.kinds.has(k)) SL.kinds.delete(k); else SL.kinds.add(k); b.setAttribute('aria-pressed', String(SL.kinds.has(k))); slWake(); kick(); });
+      if (SL.kinds.has(k)) SL.kinds.delete(k); else SL.kinds.add(k); b.setAttribute('aria-pressed', String(SL.kinds.has(k))); slWake(); kick(); slEmit('kinds', Array.from(SL.kinds)); });
   }
   function slPathHTML() {
     const q = st.slPathQ || ['', ''], P2 = st.slPath;

diff --git a/subjects/assets/views/people.css b/subjects/assets/views/people.css
@@ -562,7 +562,10 @@ button.pv-chip.is-tag:hover{border-style:solid}
   .pp.sl-hero{bottom:0}
   .pp.sl-hero .pp-stage::before{background:linear-gradient(180deg,#011015 0,#011015 142px,rgba(1,16,21,0) 175px,rgba(1,16,21,0) calc(100% - 144px),#011015 calc(100% - 96px))}
   .pp.sl-hero .pp-stage::after{left:20px;right:20px;bottom:56px}
-  .pp.sl-hero .pp-find,.pp.sl-hero #pp-zoom,.pp.sl-hero #pp-key,.pp.sl-hero .sl-hk{display:none!important}
+  .pp.sl-hero #pp-zoom,.pp.sl-hero #pp-key,.pp.sl-hero .sl-hk{display:none!important}
+  /* search stays in reach on a phone: under the dek, right-hand side of the masthead band */
+  .pp.sl-hero .pp-find{top:96px;right:20px;width:min(46vw,190px)}
+  .pp.sl-hero #pp-results{width:calc(100vw - 40px);max-width:none}
   .pp.sl-hero #sl-kinds{left:20px;right:20px;bottom:66px;max-width:none;flex-wrap:nowrap;overflow-x:auto;scrollbar-width:none;gap:6px}
   .pp.sl-hero #sl-kinds .pp-chip{height:26px;padding:0 9px;font-size:9.5px;flex:none}
   .pp.sl-hero #sl-mode{left:20px;bottom:14px;gap:4px}
@@ -574,3 +577,8 @@ button.pv-chip.is-tag:hover{border-style:solid}
 }
 .pp.sl-hero .pp-find{height:auto;padding:0;background:transparent;border:0;border-radius:0;-webkit-backdrop-filter:none;backdrop-filter:none}
 .pp.sl-hero .pp-find:focus-within #pp-q{border-bottom-color:#FF4C00}
+
+/* hero search results: name, kind and mentions, and a way straight to the page */
+.pp.sl-hero #pp-results li{display:flex;align-items:center;gap:8px}
+.pp.sl-hero #pp-results .r-go{margin-left:6px;color:inherit;opacity:.55;text-decoration:none;padding:0 4px}
+.pp.sl-hero #pp-results .r-go:hover{opacity:1;color:#FF4C00}
